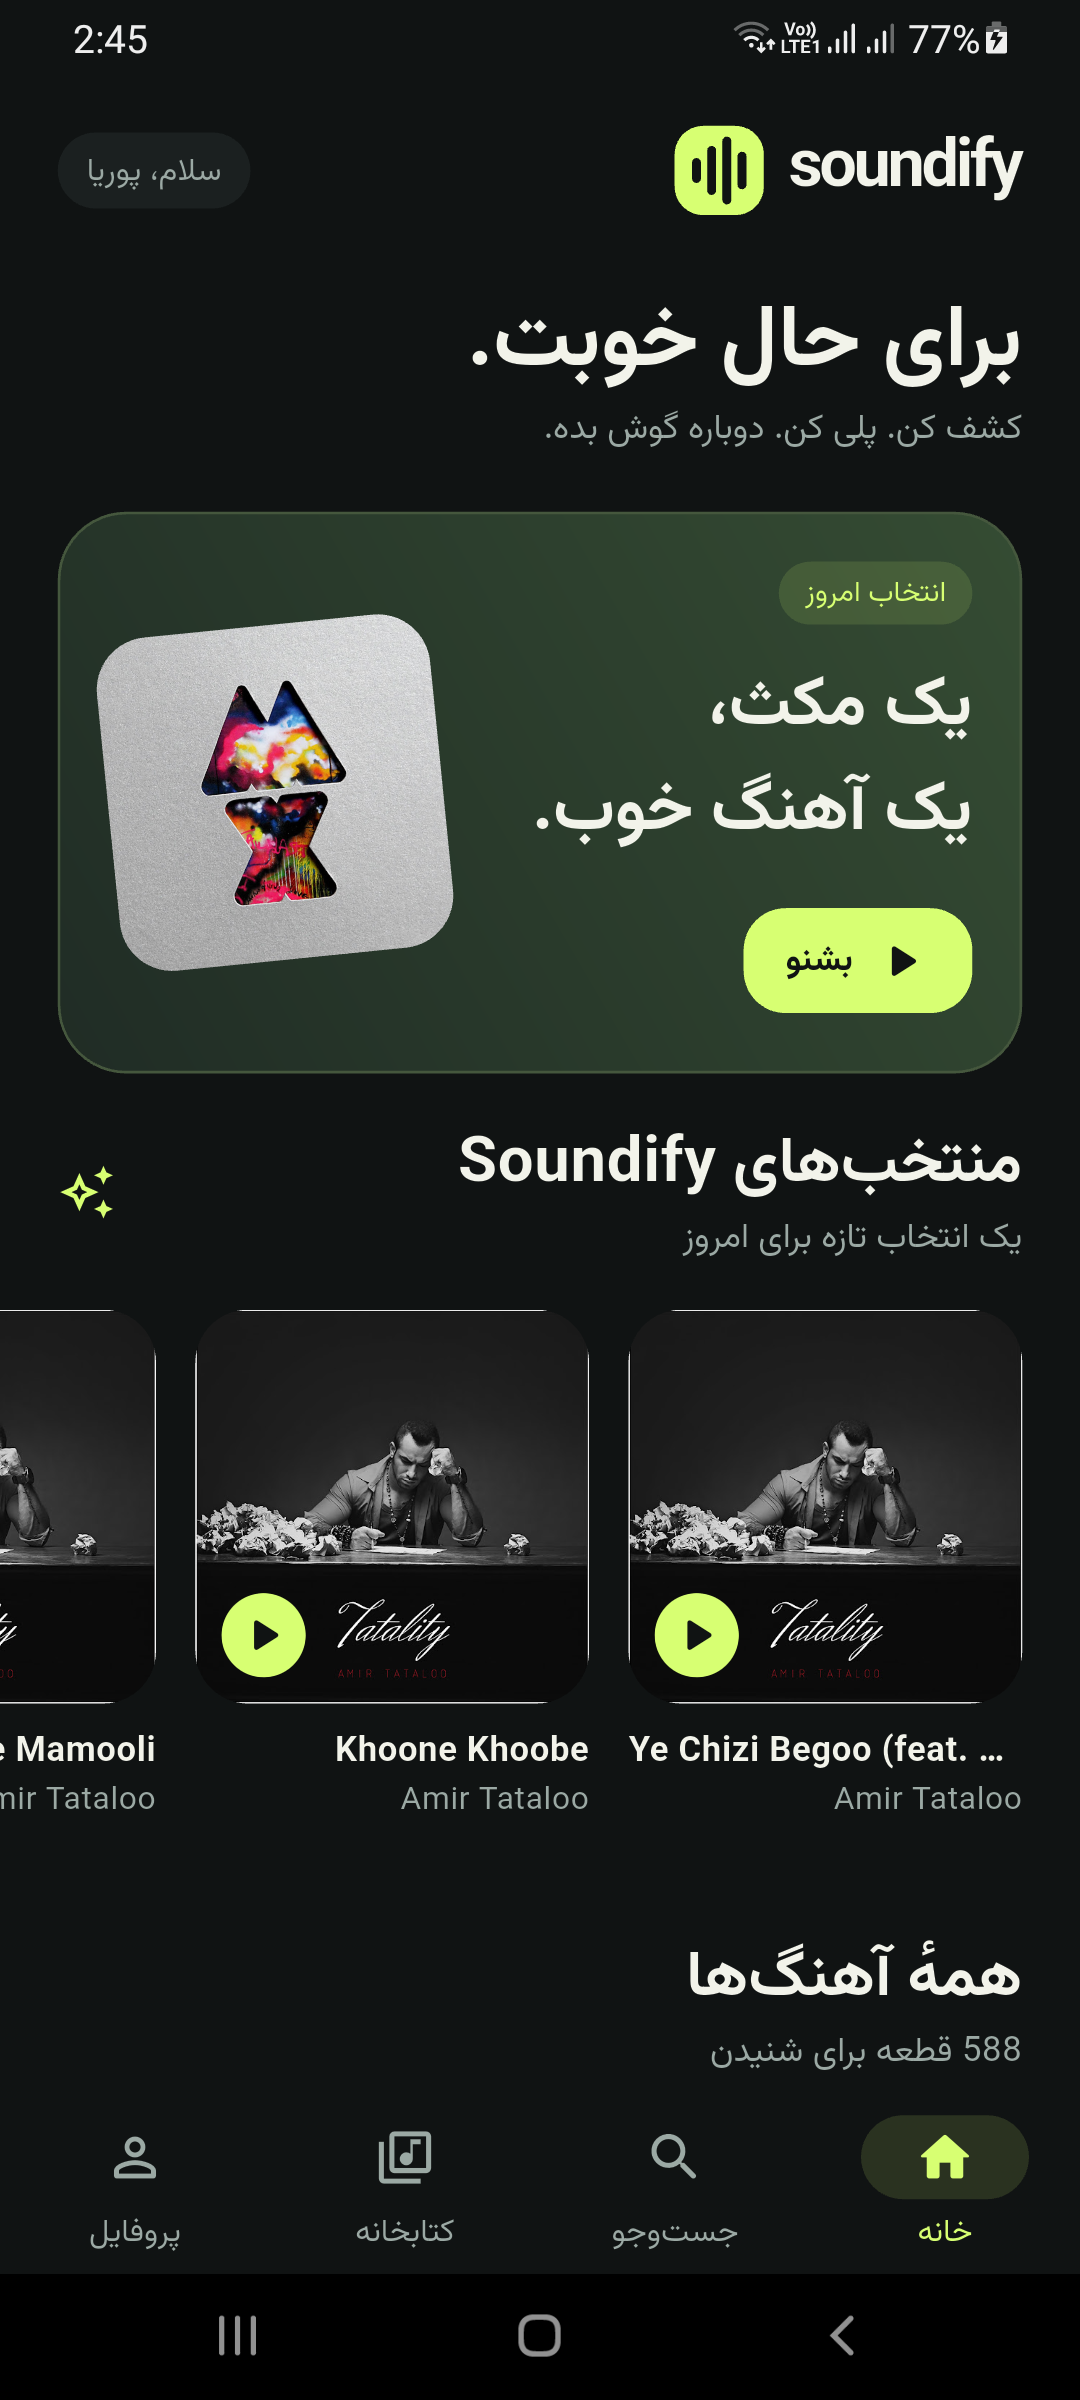
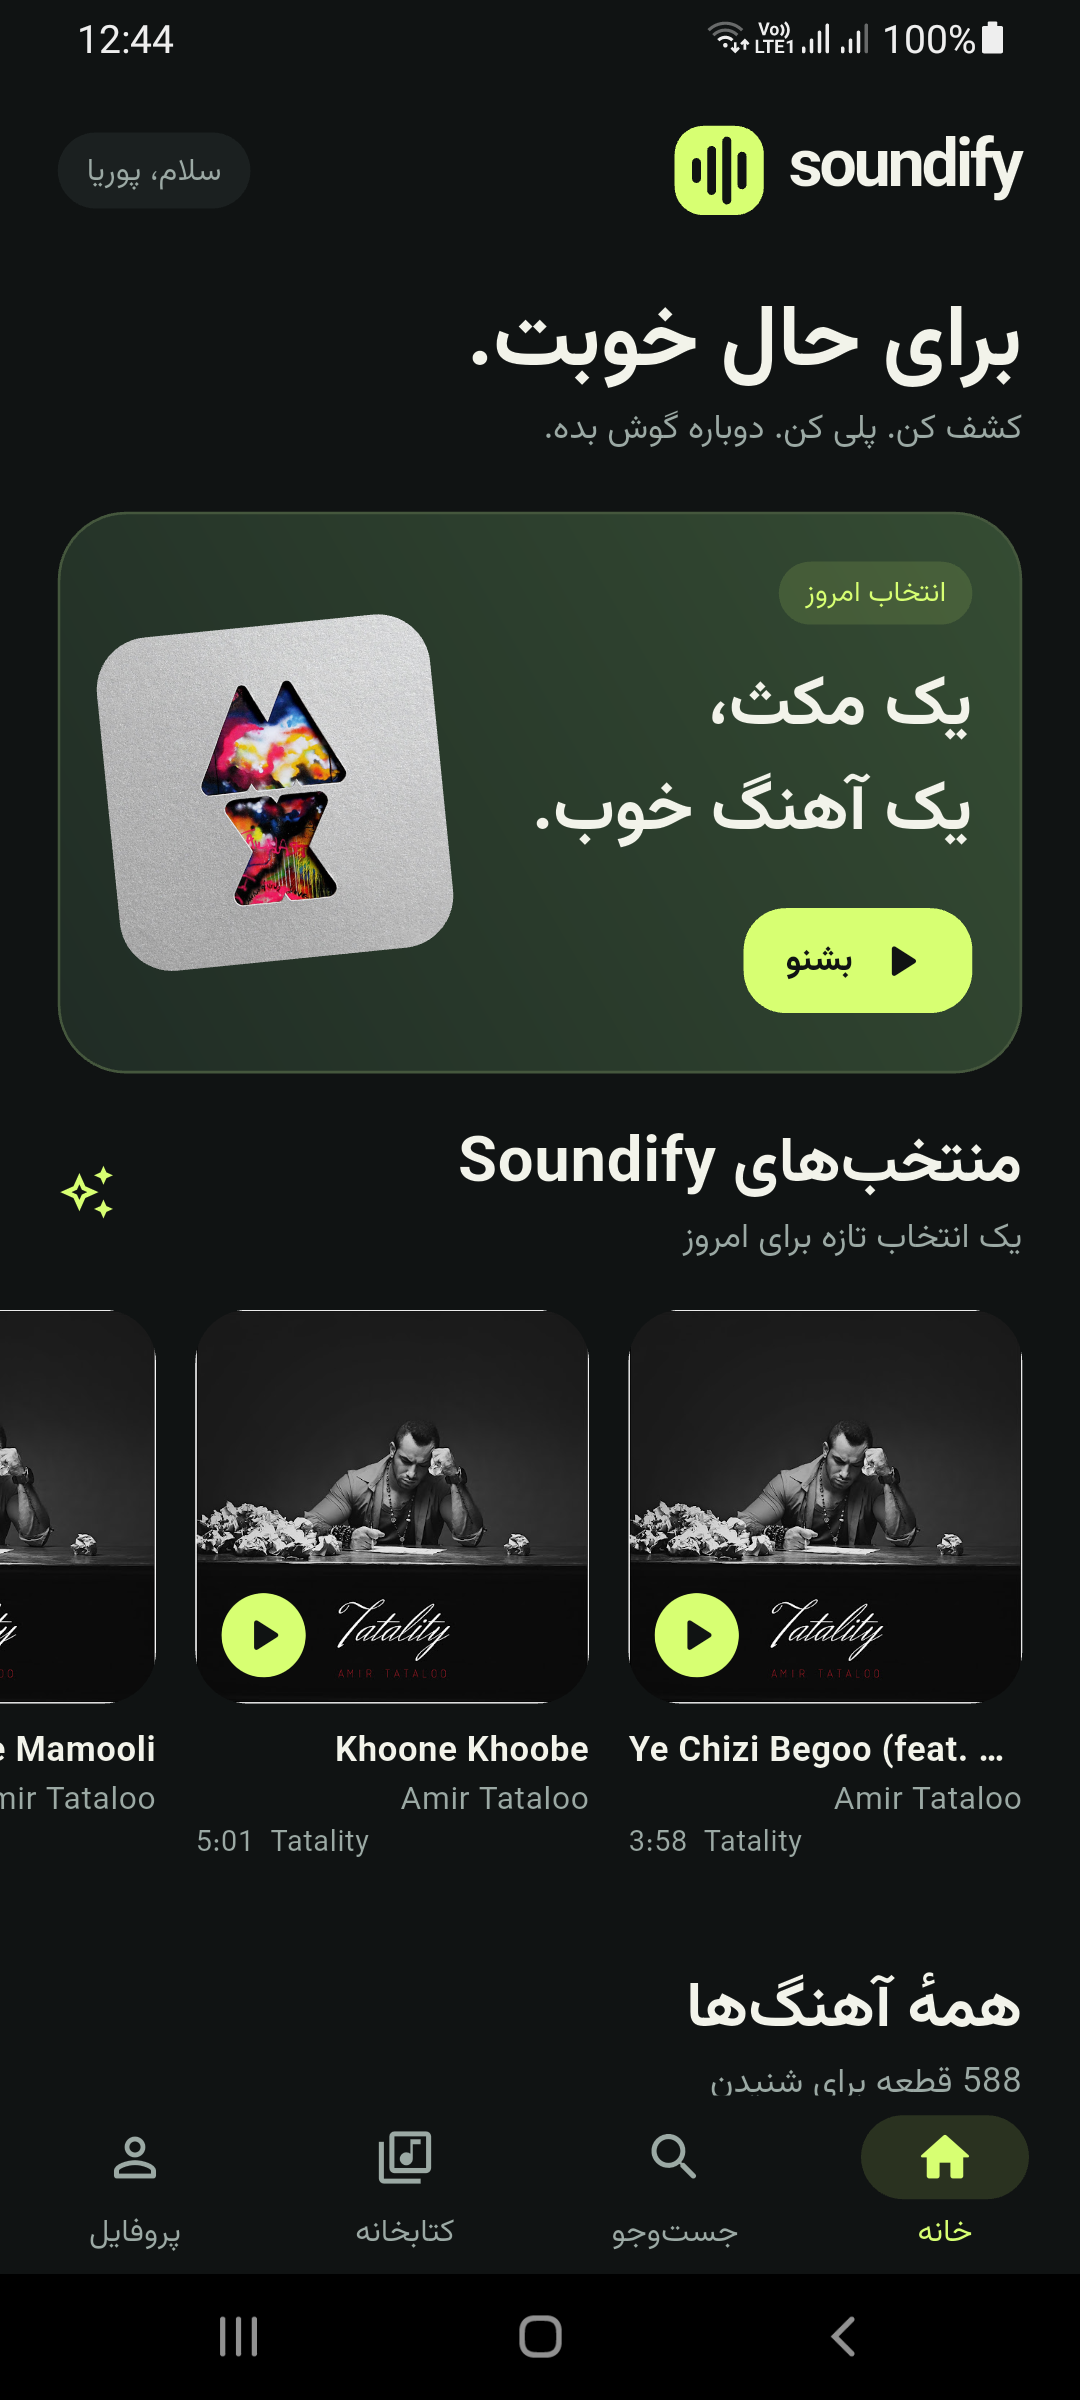
Record release favorite add, reload and removal validation

diff --git a/docs/TEST_REPORT.fa.md b/docs/TEST_REPORT.fa.md
@@ -15,6 +15,8 @@
 
 در اجرای جداگانه با `TEST_MUTATIONS=true`، ایجاد و ویرایش نام/توضیحات پلیلیست، افزودن و حذف آهنگ و خواندن مجدد آنها انجام شد؛ درخواست افزودن علاقهمندی با timeout و در تکرار با `Connection reset by peer` متوقف شد. بنابراین این اجرای کامل CRUD موفق اعلام نمیشود. تست API ثبتشدهٔ ۱۹ نوامبر، افزودن/حذف علاقهمندی را با پاسخهای 201/204 تأیید کرده است؛ آزمونهای واحد نیز تغییر خوشبینانه و rollback هنگام خطای شبکه را پوشش میدهند.
 
+در بازآزمایی رابط روی همان APK release نسخهٔ 1.0.1، آهنگ **Paradise — Coldplay** به علاقهمندیها اضافه شد. ورود مجدد به کتابخانه و pull-to-refresh، باقیماندن آهنگ پس از خواندن از سرور را تأیید کردند. سپس آهنگ از کتابخانه حذف شد؛ قلب صفحهٔ جستوجو به وضعیت اولیه برگشت و بازکردن دوبارهٔ کتابخانه، شمارش صفر و نمای خالی را نشان داد. این دور افزودن/حذف کامل موفق بود و خطای اتصال قبلی تکرار نشد. وضعیت حساب به حالت اولیه بازگردانده شد. تصاویر [افزودن و بازخوانی](screenshots/favorites-added.png) و [حذف و بازخوانی](screenshots/favorites-removed.png) ثبت شدهاند.
+
 ## بررسی API در ۲۱ نوامبر
 
 - قرارداد `/schema` دوباره دریافت و نسخهٔ 1.1.0 ثبت شد.
